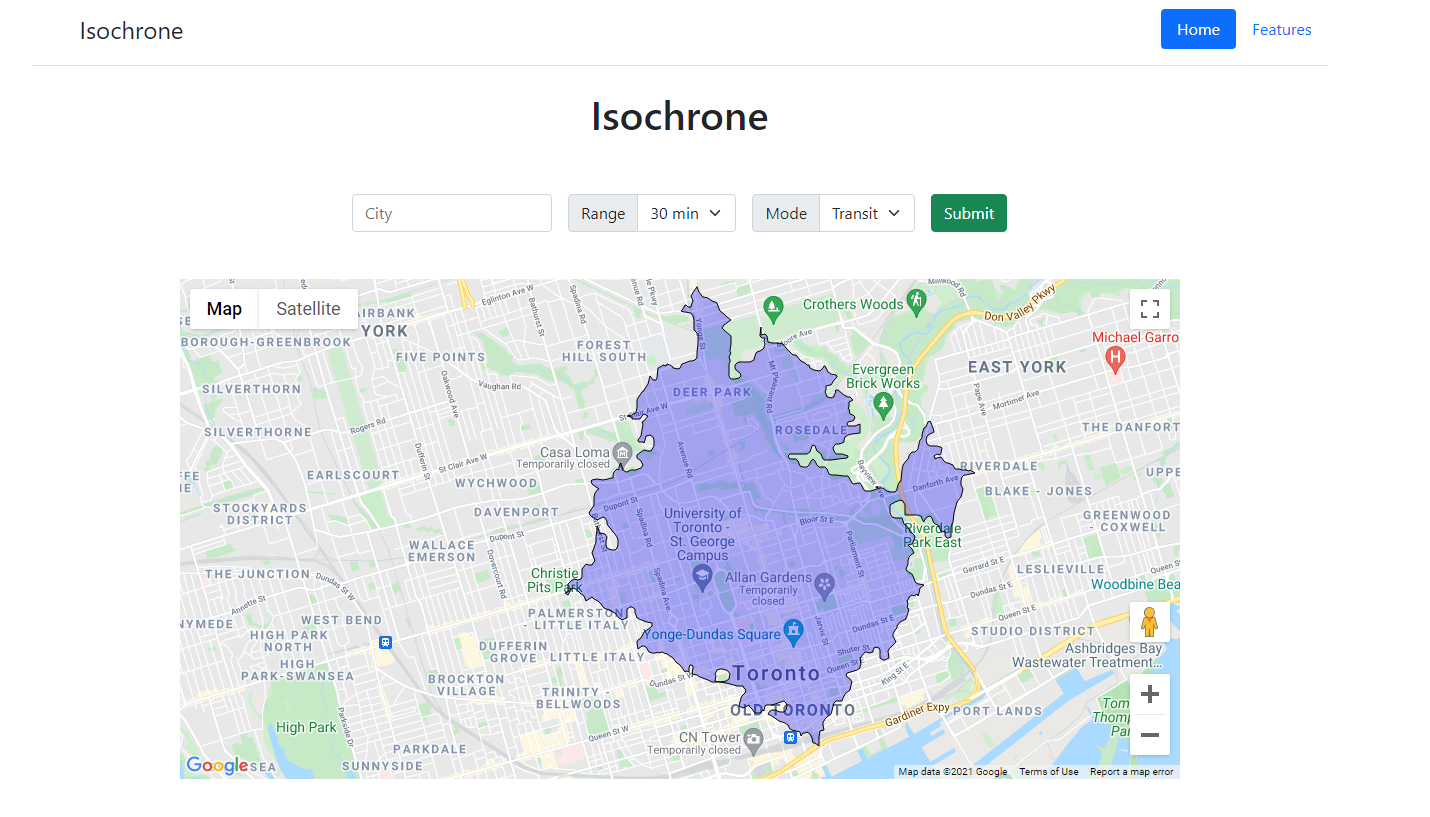
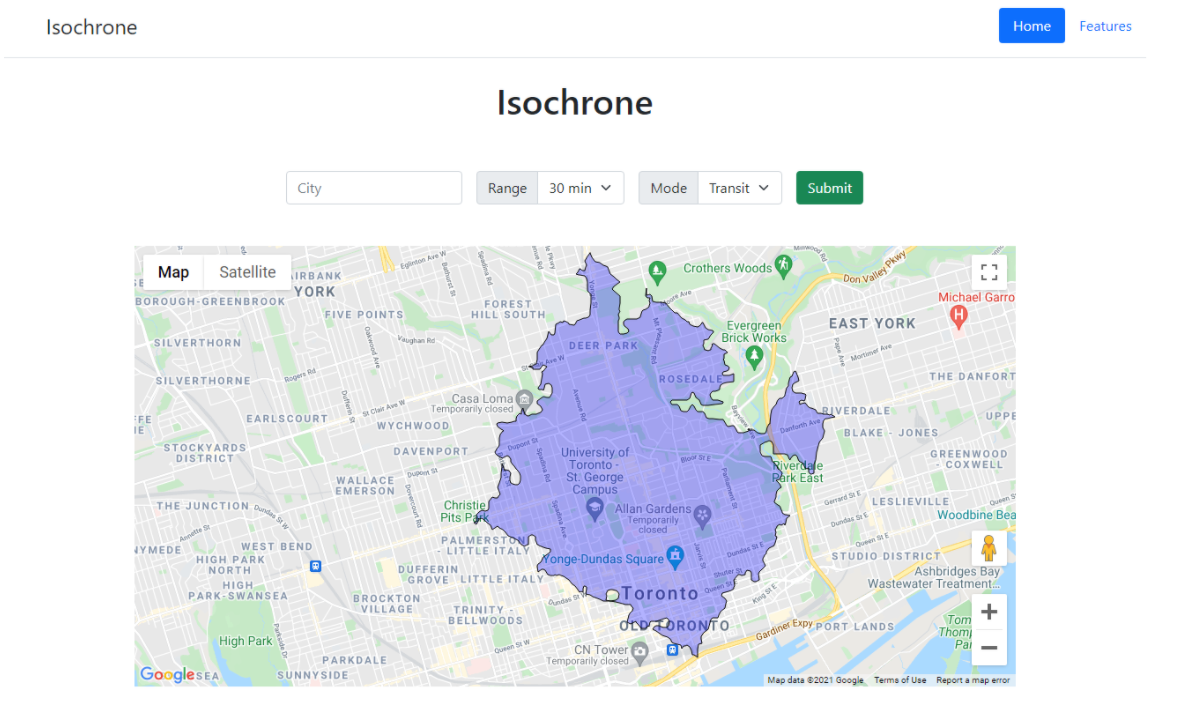
Updated images to match size

diff --git a/Stylesheets/main.css b/Stylesheets/main.css
@@ -1,7 +1,7 @@
 /*
 *
 * ==========================================
-* CUSTOM UTIL CLASSES
+* NAVBAR SECTION
 * ==========================================
 *
 */
@@ -62,6 +62,9 @@
     color: #7A4419;
 }
 /* JUMBOTRON SECTION */
+.img-fluid {
+    max-height: 100%;
+}
 .jumbotron {
     /* Photo by <a href="https://unsplash.com/@xcrap?utm_source=unsplash&utm_medium=referral&utm_content=creditCopyText">César Couto</a> on <a href="https://unsplash.com/s/photos/portfolio-background?utm_source=unsplash&utm_medium=referral&utm_content=creditCopyText">Unsplash</a>
    */
@@ -107,6 +110,7 @@ h1 {
 /* PORTFOLIO SECTION */
 #portfolio {
     background-color: #dfdfdf;
+    height: 100vh;
 }
 #portfolio h2 {
     color: #2B2C28;
@@ -116,6 +120,10 @@ h1 {
 }
 #portfolio p {
     color: #2B2C28;
+}
+.PortfolioGroup {
+    max-width: 80%;
+    margin: auto;
 }
 
 /* CONTACT SECTION */

diff --git a/index.php b/index.php
@@ -34,7 +34,7 @@
         <section class="jumbotron bg-cover" id="home">
             <h2 class="sr-only">Luis Botello Intro</h2>
             <div class="container py-5 text-center d-flex flex-row justify-content-around">
-                <img id="ProfilePic" src="./Images/LuisProfile.jpg" class="rounded"></img>
+                <img id="ProfilePic" src="./Images/LuisProfile.jpg" class="rounded img-fluid"></img>
                 <div id="IntroText" class="d-flex flex-column align-items-center">
                     <h1 class="display-4 font-weight-bold">Hi! I'm Luis</h1>
                     <p>Versatile web-developer with a love for solving challenging problems. He has a bachelor’s degree in Space Engineering from York University where he first learned to program in various languages. He is currently pursuing a certificate in web-development at Humber college where he is developing data-driven websites.</p>
@@ -111,17 +111,19 @@
         <section class="text-center" id="portfolio">
             <h2>Projects</h2>
             <div class="container">
-                <div class="row">
-                    <div class="col">
-                        <h3>Clash Force Five</h3>
-                        <a href="http://clash.luisbotello.tech/"><img src="./Images/Clash.png" alt="Homescreen for Clash Force Five HR application"></a>
+                <div class="row PortfolioGroup">
+                    <div class="col text-center">
+                        <h3 class="text-center">Clash Force Five</h3>
+                        <a href="http://clash.luisbotello.tech/"><img class="img-fluid" src="./Images/Clash.png" alt="Homescreen for Clash Force Five HR application"></a>
                         <p>US Army HR application</p>
                     </div>
                     <div class="col">
                         <h3>Isochrone</h3>
-                        <a href="http://isochrone.luisbotello.tech"><img src="./Images/Isochrone.png" alt="Map with polygons drawn on it representing the area someone can travel within a given timeframe"></a>
+                        <a href="http://isochrone.luisbotello.tech"><img class="img-fluid" src="./Images/Isochrone.png" alt="Map with polygons drawn on it representing the area someone can travel within a given timeframe"></a>
                         <p>Travel-time visualizer using an open API</p>
                     </div>
+                </div>
+                <div class="row PortfolioGroup">
                     <div class="col">
                         <a href="http://"><img src="" alt="" srcset=""></a>
                     </div>
